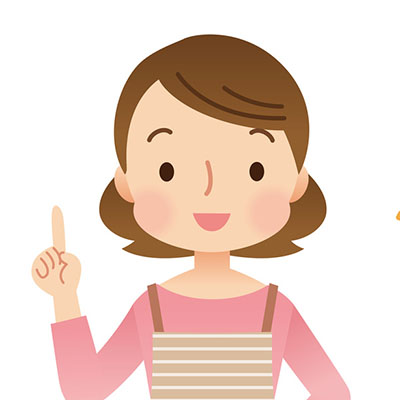
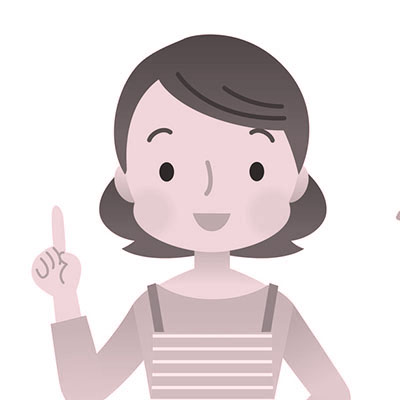
イメージ差し替え2

diff --git a/index.html b/index.html
@@ -43,11 +43,11 @@
                        <h2 class="text-center">Works</h2>
         <div class="works-box">
             <a href="#">
-                <img src="./images/img_work_site.png" alt="株式会社きらめき コーポレートサイト様 Webサイトデザイン">
+                <img src="./images/img_work_site.png" alt="企画会社ゆ・か・り コーポレートサイト様 Webサイトデザイン">
                 <div class="works-box-inner">
                     <div class="text-center">
-                        <h3>株式会社きらめき コーポレートサイト</h3>
-                        <small>2016.04.20</small>
+                        <h3>企画会社ゆ・か・り コーポレートサイト</h3>
+                        <small>2017.03.20</small>
                         <span class="button-readmore">Read More</span>
                     </div>
                 </div>
@@ -59,7 +59,7 @@
                 <div class="works-box-inner">
                     <div class="text-center">
                         <h3>きらめき花子様 名刺</h3>
-                        <small>2016.04.20</small>
+                        <small>2017.03.20</small>
                         <span class="button-readmore">Read More</span>
                     </div>
                 </div>
@@ -71,7 +71,7 @@
                 <div class="works-box-inner">
                     <div class="text-center">
                         <h3>ブログデザイン</h3>
-                        <small>2016.04.20</small>
+                        <small>2017.03.20</small>
                         <span class="button-readmore">Read More</span>
                     </div>
                 </div>
@@ -83,7 +83,7 @@
                 <div class="works-box-inner">
                     <div class="text-center">
                         <h3>きらめき花子様 名刺</h3>
-                        <small>2016.04.20</small>
+                        <small>2017.03.20</small>
                         <span class="button-readmore">Read More</span>
                     </div>
                 </div>
@@ -95,7 +95,7 @@
                 <div class="works-box-inner">
                     <div class="text-center">
                         <h3>ブログデザイン</h3>
-                        <small>2016.04.20</small>
+                        <small>2017.03.20</small>
                         <span class="button-readmore">Read More</span>
                     </div>
                 </div>
@@ -103,11 +103,11 @@
         </div>
         <div class="works-box">
             <a href="#">
-                <img src="./images/img_work_site.png" alt="株式会社きらめき コーポレートサイト様 Webサイトデザイン">
+                <img src="./images/img_work_site.png" alt="企画会社ゆ・か・り コーポレートサイト様 Webサイトデザイン">
                 <div class="works-box-inner">
                     <div class="text-center">
-                        <h3>株式会社きらめき コーポレートサイト</h3>
-                        <small>2016.04.20</small>
+                        <h3>企画会社ゆ・か・り コーポレートサイト</h3>
+                        <small>2017.03.20</small>
                         <span class="button-readmore">Read More</span>
                     </div>
                 </div>
@@ -119,7 +119,7 @@
                 <div class="works-box-inner">
                     <div class="text-center">
                         <h3>ブログデザイン</h3>
-                        <small>2016.04.20</small>
+                        <small>2017.03.20</small>
                         <span class="button-readmore">Read More</span>
                     </div>
                 </div>
@@ -127,11 +127,11 @@
         </div>
         <div class="works-box">
             <a href="#">
-                <img src="./images/img_work_site.png" alt="株式会社きらめき コーポレートサイト様 Webサイトデザイン">
+                <img src="./images/img_work_site.png" alt="企画会社ゆ・か・り コーポレートサイト様 Webサイトデザイン">
                 <div class="works-box-inner">
                     <div class="text-center">
-                        <h3>株式会社きらめき コーポレートサイト</h3>
-                        <small>2016.04.20</small>
+                        <h3>企画会社ゆ・か・り コーポレートサイト</h3>
+                        <small>2017.03.20</small>
                         <span class="button-readmore">Read More</span>
                     </div>
                 </div>
@@ -143,7 +143,7 @@
                 <div class="works-box-inner">
                     <div class="text-center">
                         <h3>きらめき花子様 名刺</h3>
-                        <small>2016.04.20</small>
+                        <small>2017.03.20</small>
                         <span class="button-readmore">Read More</span>
                     </div>
                 </div>
